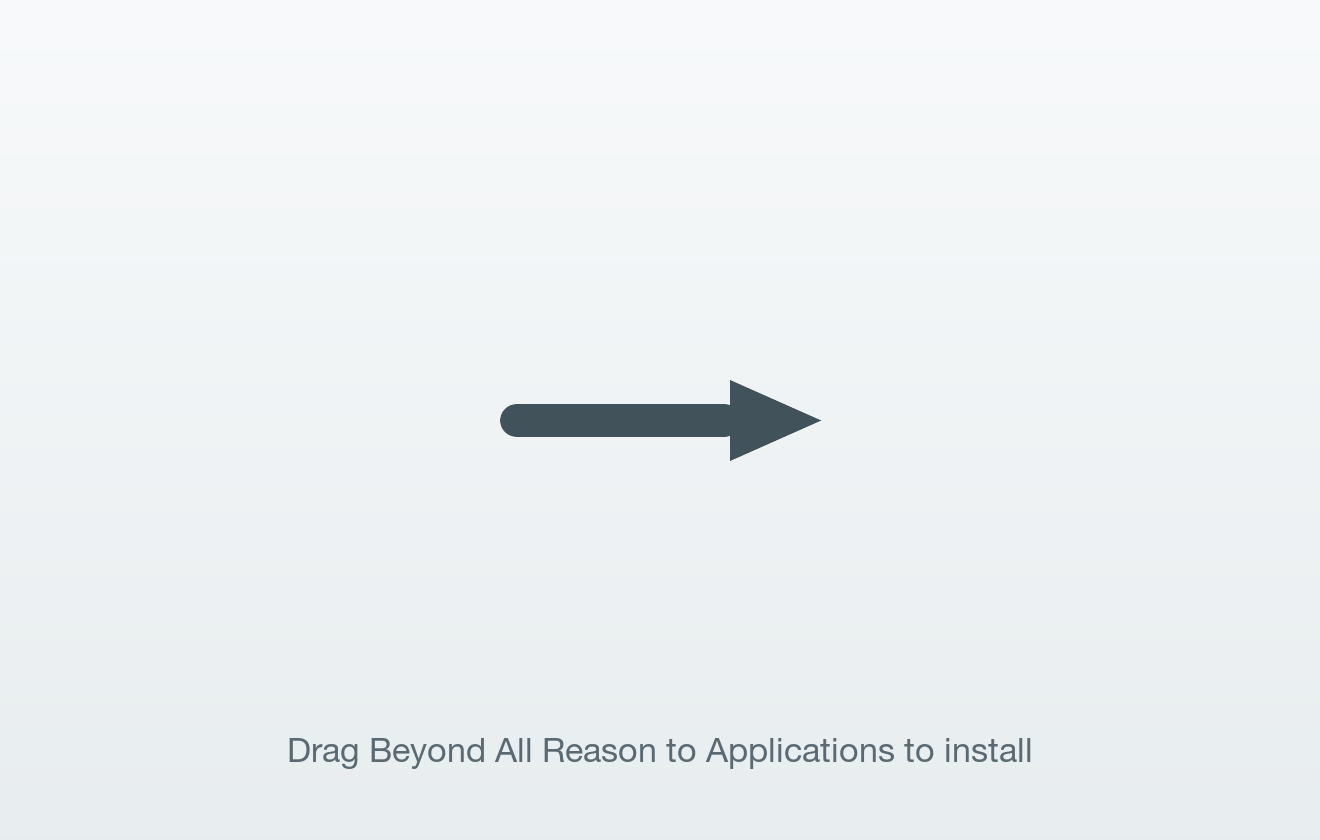
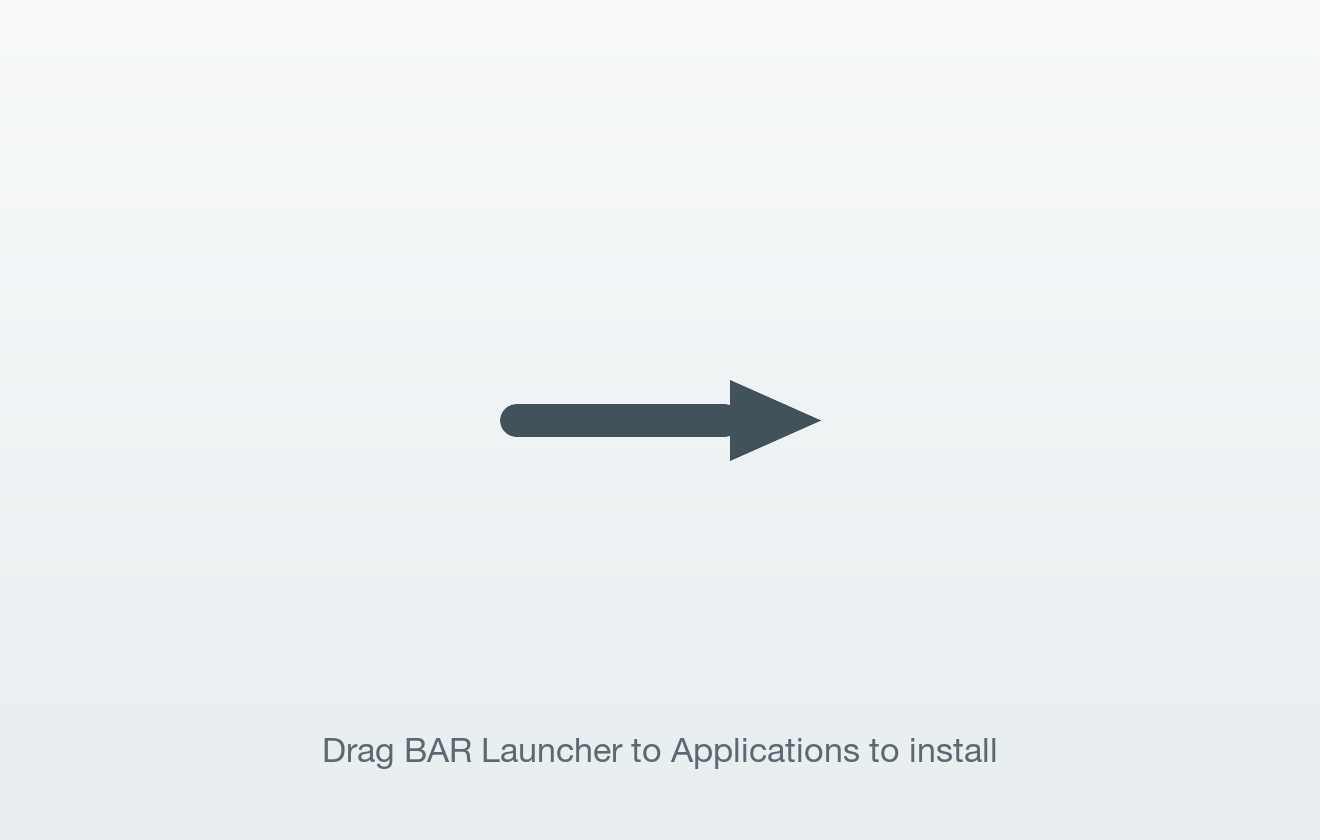
docs: engine-port-first framing (BAR launcher = convenience package); caution admonition + persistent release-notes header; consent dialog disclaims responsibility

Changed region(s): [[0.2174, 0.8667, 0.7765, 0.9286]]

diff --git a/packaging/consent-dialog.swift b/packaging/consent-dialog.swift
@@ -25,8 +25,10 @@ let alert = NSAlert()
 alert.messageText = "Recoil Engine"
 alert.informativeText =
     "Do you wish to download and run the game Beyond All Reason from \(server)?\n\n" +
-    "This game is not hosted or vetted by the maintainer of Recoil Engine for macOS, " +
-    "download and run this game AT YOUR OWN RISK!\n\n" +
+    "Beyond All Reason is third-party content. It is not hosted, vetted, or " +
+    "endorsed by the maintainer of Recoil Engine for macOS, who accepts no " +
+    "responsibility for it or for any damage it may cause. Download and run " +
+    "this game AT YOUR OWN RISK!\n\n" +
     "If you continue, future updates for the game may download and run " +
     "automatically."
 alert.alertStyle = .warning

diff --git a/packaging/error-dialog.swift b/packaging/error-dialog.swift
@@ -19,7 +19,7 @@ func arg(_ name: String) -> String? {
     return nil
 }
 
-let title = arg("--title") ?? "Beyond All Reason"
+let title = arg("--title") ?? "BAR Launcher"
 var message = arg("--message") ?? ""
 if message.isEmpty {
     message = String(data: FileHandle.standardInput.readDataToEndOfFile(), encoding: .utf8) ?? ""

diff --git a/packaging/progress-window.swift b/packaging/progress-window.swift
@@ -27,7 +27,7 @@ final class ProgressController: NSObject, NSApplicationDelegate {
     var inError = false
 
     func applicationDidFinishLaunching(_ n: Notification) {
-        window.title = "Beyond All Reason"
+        window.title = "BAR Launcher"
         window.center()
         window.isReleasedWhenClosed = false
 

diff --git a/README.md b/README.md
@@ -8,32 +8,51 @@
   <img src="https://img.shields.io/badge/built%20on-Recoil-orange" alt="Built on the Recoil engine">
 </p>
 
-A native Apple Silicon port of the **[Recoil](https://github.com/beyond-all-reason/RecoilEngine)**
-RTS engine. It is not a game by itself — it lets Recoil/Spring games run on a
-Mac, no Rosetta, no virtual machine. The headline use is
-**[Beyond All Reason](https://www.beyondallreason.info/)**: an optional helper
-app downloads BAR's content from its official network and configures the
-engine to play it, with full graphics and full online multiplayer against
-Windows and Linux players in the same lobbies.
+**This project is a native Apple Silicon port of the
+[Recoil](https://github.com/beyond-all-reason/RecoilEngine) RTS engine** — the
+engine itself, running on macOS with no Rosetta and no virtual machine. It is
+not a game: it is the platform that Recoil/Spring games run on.
+
+For convenience, releases also include an **optional BAR launcher package**: a
+drag-to-install app that (with your explicit consent, and with the caveats
+below) downloads **[Beyond All Reason](https://www.beyondallreason.info/)**
+from its official content network and configures the engine to play it — full
+graphics, full online multiplayer against Windows and Linux players in the
+same lobbies.
 
 **Two downloads** on the [releases page](https://github.com/benbreen/recoil-apple/releases/latest):
 
 | Artifact | What it is | For whom |
 |---|---|---|
-| `Recoil-macos-<engine>-port<ver>.zip` | The engine port alone: signed, notarized `spring`, `spring-headless`, and `pr-downloader` with the bundled Metal driver stack. No game content or configuration. | Any Recoil/Spring game community, tooling, or anyone building their own game helper on top. |
-| `BAR-macos-<ver>.dmg` | The engine **plus the BAR helper**: a drag-to-install app that downloads Beyond All Reason from BAR's official content network on first launch, keeps it updated, and launches straight into its lobby. | Players who want to play BAR on a Mac. |
+| `Recoil-macos-<engine>-port<ver>.zip` | **The project itself** — the engine port: signed, notarized `spring`, `spring-headless`, and `pr-downloader` with the bundled Metal driver stack. No game content or configuration. | Any Recoil/Spring game community, tooling, or anyone building their own game launcher on top. |
+| `BAR-macos-<ver>.dmg` | **Convenience package** — the engine plus a BAR launcher: a drag-to-install app that (after an explicit consent prompt) downloads Beyond All Reason from BAR's official content network, keeps it updated, and launches straight into its lobby. | Players who want to play BAR on a Mac. |
 
-> **Unofficial project.** This is an independent community port — it is not
-> affiliated with, endorsed by, or supported by the Recoil engine team or the
-> Beyond All Reason project. Please report issues with this port **here**, not
-> to them.
->
-> **No game content is hosted here.** This repository and its releases contain
-> only the engine (GPL-2.0) and this port's packaging. The game itself — its
-> units, art, sounds, and maps, which are under
-> [BAR's own licenses](https://github.com/beyond-all-reason/Beyond-All-Reason/blob/master/LICENSE.md)
-> — is downloaded by the app on first launch from BAR's official content
-> network, exactly as the official launcher does.
+> [!CAUTION]
+> **Unofficial project — third-party game content.** This is an independent
+> community port, not affiliated with, endorsed by, or supported by the Recoil
+> engine team or the Beyond All Reason project. **No game content is hosted
+> here**: this repository and its releases contain only the engine (GPL-2.0)
+> and this port's packaging. The game itself — **including executable game
+> code that the engine runs**, plus its units, art, sounds, and maps,
+> under [BAR's own licenses](https://github.com/beyond-all-reason/Beyond-All-Reason/blob/master/LICENSE.md)
+> — is downloaded by the helper app from BAR's official content network on
+> first launch (after an explicit consent prompt) and may auto-update later,
+> possibly including other components in future.
+> That code and content is not hosted, vetted, or endorsed by this project's
+> maintainer, who accepts no responsibility for it or for any damage it may
+> cause — install and play **AT YOUR OWN RISK**. Downloads use HTTPS and
+> content-hash verification (integrity in transit, not a vetting of the
+> content). If you believe game content is malicious, report it to the
+> [BAR project](https://github.com/beyond-all-reason/Beyond-All-Reason);
+> report problems with this port **here**, not to them.
+
+> **Good faith, stated up front.** This project is free, unofficial, and
+> takes no money — no donations, no sponsorships. If the Beyond All Reason or
+> Recoil projects object to any part of it, including the names used, it will
+> be renamed or taken down on request. Support is best-effort. Download only
+> from this repository's [Releases](../../releases) page and verify the
+> published SHA-256 checksums; no other distribution channel is ours. Security
+> issues: see [SECURITY.md](SECURITY.md).
 
 > ⚡️ **A Claude Fable port.** The macOS layer in this repository was built
 > largely by **[Claude Fable](https://www.anthropic.com)** (Anthropic's Claude
@@ -41,13 +60,13 @@ Windows and Linux players in the same lobbies.
 > [What this project did](#what-this-project-did).
 
 <p align="center">
-  <a href="https://github.com/benbreen/recoil-apple/releases/latest"><b>⬇&nbsp; Download · play Beyond All Reason on your Mac</b></a>
-  &nbsp;·&nbsp; requires an Apple Silicon Mac on macOS 26+
+  <a href="https://github.com/benbreen/recoil-apple/releases/latest"><b>⬇&nbsp; Download for macOS (Apple Silicon)</b></a>
+  &nbsp;·&nbsp; engine port + optional BAR launcher &nbsp;·&nbsp; macOS 26+
 </p>
 
 <p align="center">
   <img src="screenshots/hero.jpg" alt="Beyond All Reason running natively on macOS (Apple Silicon)" width="100%">
-  <br><em>Beyond All Reason running natively on an Apple Silicon Mac.</em>
+  <br><em>The engine port running Beyond All Reason natively on an Apple Silicon Mac.</em>
 </p>
 
 The [Recoil engine](https://github.com/beyond-all-reason/RecoilEngine) is the
@@ -187,9 +206,9 @@ and [Homebrew](https://brew.sh) — the build installs the packages it needs
 (SDL2, LLVM 19 for the driver compile, openal-soft, …) as it goes.
 
 ```sh
-make app         # the BAR helper app: pinned Mesa driver (cached after the
-                 # first build) -> engine + determinism gates -> Beyond All
-                 # Reason.app + .dmg (ad-hoc signed, local use)
+make app         # the BAR launcher package: pinned Mesa driver (cached
+                 # after the first build) -> engine + determinism gates ->
+                 # BAR Launcher.app + .dmg (ad-hoc signed, local use)
 make engine-dist # the Recoil engine alone (no BAR helper/branding):
                  # Recoil-macos-<engine>-port<ver>.zip
 make certify     # app + full replay-determinism certification (GPU, ~1h)

diff --git a/SECURITY.md b/SECURITY.md
@@ -1,0 +1,23 @@
+# Security policy
+
+## Reporting a vulnerability
+
+If you find a security problem in **this port** (the engine build, the
+launcher, the packaging, or the build pipeline), please use GitHub's
+[private vulnerability reporting](../../security/advisories/new) on this
+repository rather than a public issue. Best-effort response — this is an
+unofficial community project, not a company.
+
+If you believe **game content** (anything downloaded from BAR's content
+network) is malicious, report it to the
+[Beyond All Reason project](https://github.com/beyond-all-reason/Beyond-All-Reason)
+— they control that content; this project does not host, vet, or modify it.
+
+## What this project ships
+
+Only what is in this repository: the engine binaries built from this source,
+the bundled driver stack built from pinned upstream Mesa plus the committed
+patches, and the launcher. Every release is Developer ID signed and notarized
+by Apple, with SHA-256 checksums published alongside. **Download only from
+this repository's Releases page and verify the checksums** — no other
+distribution channel is ours.

diff --git a/docs/MAINTENANCE.md b/docs/MAINTENANCE.md
@@ -60,12 +60,18 @@ When the fleet moves to a new engine version `NEW` (e.g. 2026.06.08):
 ## Releasing the app
 
 `make app` (build/package, headless-safe) and `make certify` / `make release`
-(adds GPU + replay certification). The bundle version is read from the built
-engine (`spring --version`) so `CFBundleShortVersionString` == the fleet's
-version identity. See the README "Building the macOS app". Long, GPU-, and
-content-dependent validation is opt-in so build machines can package — mirrors
-upstream Recoil CI, where the build workflow builds and a separate workflow
-validates.
+(adds GPU + replay certification). The engine pin is read from the built
+engine (`spring --version`) and kept in `CFBundleVersion`/`EngineVersion`;
+the user-facing release number comes from `packaging/PORT_VERSION`. See the
+README "Building the macOS app". Long, GPU-, and content-dependent validation
+is opt-in so build machines can package — mirrors upstream Recoil CI, where
+the build workflow builds and a separate workflow validates.
+
+**Every GitHub release's notes MUST start with
+`packaging/release-notes-header.md` verbatim** — the persistent caution block
+(unofficial port, third-party content downloaded at the user's own risk). It
+mirrors the first-run consent dialog and the README caution; if one changes,
+change all three.
 
 ## What to upstream (keep the layer shrinking)
 

diff --git a/packaging/release-notes-header.md b/packaging/release-notes-header.md
@@ -1,0 +1,2 @@
+> [!CAUTION]
+> **Unofficial port — third-party game content and code.** This project is not affiliated with or endorsed by the Recoil engine team or the Beyond All Reason project. The game is **not included** in this download: the app fetches Beyond All Reason — **including executable game code that the engine runs**, along with assets, and possibly other components in future — from BAR's official content network on first launch (after an explicit consent prompt) and may auto-update it later. That code and content is not hosted, vetted, or endorsed by this project's maintainer, who accepts no responsibility for it or for any damage it may cause — install and play **AT YOUR OWN RISK**. Downloads use HTTPS and rapid content-hash verification, which protect integrity in transit but do not vet the content itself. If you believe game content is malicious, report it to the [BAR project](https://github.com/beyond-all-reason/Beyond-All-Reason).